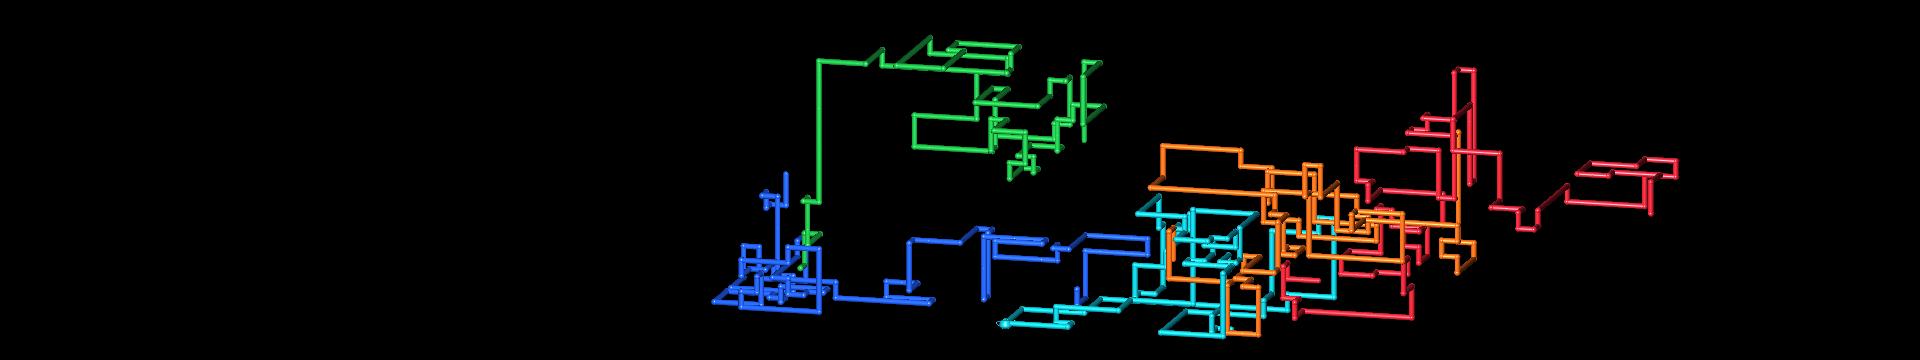
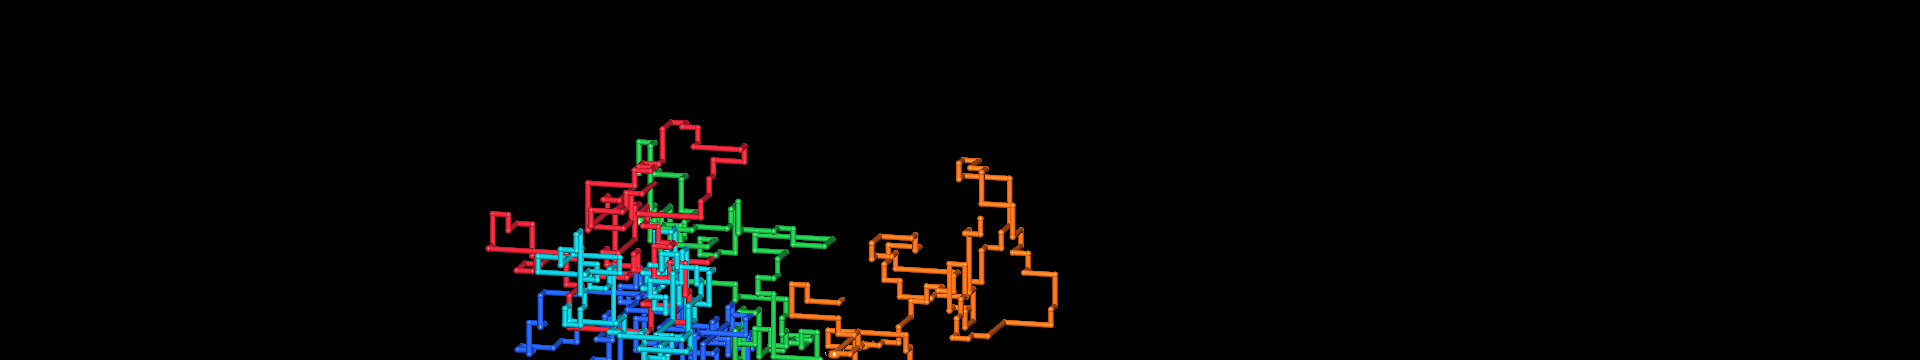
Replace bounded pipe corridors with free 3D growth biased toward the camera view

Changed region(s): [[0.25, 0.0917, 0.875, 1.0]]

diff --git a/source/Pipes.cs b/source/Pipes.cs
@@ -96,14 +96,15 @@ struct Cell : IEquatable<Cell> {
     public static Cell operator+(Cell a,Cell b) { return new Cell(a.X+b.X,a.Y+b.Y,a.Z+b.Z); }
     public bool Equals(Cell b) { return X==b.X&&Y==b.Y&&Z==b.Z; }
     public override bool Equals(object o) { return o is Cell && Equals((Cell)o); }
-    public override int GetHashCode() { return (X+32)*4096+(Y+32)*64+Z+32; }
+    public override int GetHashCode() { unchecked { return (X*73856093)^(Y*19349663)^(Z*83492791); } }
 }
 class Segment { public Cell A,B; public Color Color; public bool Joint,Teapot; }
 class Pipe { public Cell At,Direction; public Color Color; public Segment Growing; public double Progress; public bool Dead; }
 class Scene {
     public List<Segment> Segments=new List<Segment>(); public List<Pipe> Pipes=new List<Pipe>();
     public HashSet<Cell> Occupied=new HashSet<Cell>(); public int Resets; public double Age;
-    readonly double cameraPhase,cameraPhase2;
+    readonly double cameraPhase,cameraPhase2,viewAspect,viewHeightScale;
+    GrowthView growthView;
     Random rng; Settings settings; int halfX=10,halfY=6; int target=460; double hold;
     internal int HalfWidth { get { return halfX; } }
     internal int HalfHeight { get { return halfY; } }
@@ -111,7 +112,7 @@ class Scene {
     static readonly Cell[] directions={new Cell(1,0,0),new Cell(-1,0,0),new Cell(0,1,0),new Cell(0,-1,0),new Cell(0,0,1),new Cell(0,0,-1)};
     static readonly Color[][] palettes={ new[]{Color.FromArgb(230,36,53),Color.FromArgb(30,186,70),Color.FromArgb(35,95,240),Color.FromArgb(246,189,30),Color.FromArgb(190,42,225),Color.FromArgb(14,196,206),Color.FromArgb(245,108,24)}, new[]{Color.FromArgb(0,217,233),Color.FromArgb(248,32,143),Color.FromArgb(135,64,240),Color.FromArgb(62,238,191)},new[]{Color.FromArgb(178,196,215),Color.FromArgb(210,216,224),Color.FromArgb(136,163,195)} };
     public Scene(Settings s,int seed,double aspect,double heightScale=1) {
-        settings=s; rng=new Random(seed);
+        settings=s; rng=new Random(seed); viewAspect=Math.Max(0.4,aspect); viewHeightScale=heightScale;
         var cameraRandom=new Random(seed^0x6A13F5); cameraPhase=cameraRandom.NextDouble()*Math.PI*2; cameraPhase2=cameraRandom.NextDouble()*Math.PI*2;
         halfX=s.SpanAllScreens?Math.Max(5,(int)(aspect*heightScale*9.2)):Math.Max(5,Math.Min(20,(int)(aspect*6.4)));
         halfY=s.SpanAllScreens?Math.Max(6,(int)(heightScale*8.0)):6;
@@ -128,26 +129,36 @@ class Scene {
     }
     public void Reset() {
         Segments.Clear(); Pipes.Clear(); Occupied.Clear(); Age=0; hold=0; Resets++;
+        growthView=ViewAt(0);
         var pal=palettes[settings.Palette];
         int colourOffset=rng.Next(pal.Length);
         for(int i=0;i<settings.Count;i++) {
-            Cell start; do { start=new Cell(rng.Next(-halfX,halfX+1),rng.Next(-halfY,halfY+1),rng.Next(-4,5)); } while(Occupied.Contains(start));
+            Cell start; do { start=growthView.Spawn(rng); } while(Occupied.Contains(start));
             Occupied.Add(start); Pipes.Add(new Pipe { At=start,Color=pal[(i+colourOffset)%pal.Length] });
         }
     }
-    bool Inside(Cell c) { return Math.Abs(c.X)<=halfX && Math.Abs(c.Y)<=halfY && Math.Abs(c.Z)<=4; }
+    internal GrowthView ViewAt(double time) { return new GrowthView(CameraAt(time,settings.Rotate),viewAspect,settings.SpanAllScreens,viewHeightScale,halfX,halfY); }
+    internal double DirectionWeight(Cell from,Cell direction,Cell heading) {
+        double difference=growthView.Cost(from)-growthView.Cost(from+direction);
+        return (direction.Equals(heading)?2.4:1)*Math.Exp(Math.Max(-3,Math.Min(3,difference*2.5)));
+    }
     void Grow(Pipe p) {
-        var choices=new List<Cell>(); foreach(var d in directions) if(Inside(p.At+d)&&!Occupied.Contains(p.At+d)) choices.Add(d);
-        if(choices.Count==0) { p.Dead=true; return; }
-        Cell dir=choices[rng.Next(choices.Count)];
-        if(choices.Contains(p.Direction)&&rng.NextDouble()<0.48) dir=p.Direction;
+        // Every unoccupied neighbour is eligible, even beyond the old scene box.
+        // Weighted sampling gently favours the current camera's visible area.
+        double total=0; Cell dir=new Cell();
+        foreach(var candidate in directions) {
+            if(Occupied.Contains(p.At+candidate)) continue;
+            double weight=DirectionWeight(p.At,candidate,p.Direction); total+=weight;
+            if(rng.NextDouble()*total<weight) dir=candidate;
+        }
+        if(total==0) { p.Dead=true; return; }
         Cell next=p.At+dir; Occupied.Add(next);
         bool joint=!dir.Equals(p.Direction);
         p.Growing=new Segment { A=p.At,B=next,Color=p.Color,Joint=joint,Teapot=settings.Teapots&&joint&&rng.NextDouble()*100<settings.TeapotChance };
         p.Direction=dir; p.Progress=0;
     }
     public void Step(double dt) {
-        Age+=dt;
+        Age+=dt; growthView=ViewAt(Age);
         bool allDead=true;
         foreach(var p in Pipes) {
             if(p.Dead) continue; allDead=false;
@@ -437,13 +448,13 @@ static class Tests {
                     var cells=new HashSet<Cell>(); foreach(var s in scene.Segments) {
                         if(Math.Abs(s.A.X-s.B.X)+Math.Abs(s.A.Y-s.B.Y)+Math.Abs(s.A.Z-s.B.Z)!=1) throw new Exception("Non-axis-aligned pipe");
                         if(!cells.Add(s.B)) throw new Exception("Pipe collision");
-                        if(Math.Abs(s.B.X)>10||Math.Abs(s.B.Y)>6||Math.Abs(s.B.Z)>4) throw new Exception("Pipe outside bounds");
+                        if(!scene.Occupied.Contains(s.B)) throw new Exception("Pipe endpoint lost from collision tracking");
                     }
                 }
             }
             if(scene.Resets<2) throw new Exception("Scene did not cycle");
         }
-        log.Add("PASS: 180,000 simulation updates across 30 seeds; axis alignment, unique endpoints, bounds, automatic reset.");
+        log.Add("PASS: 180,000 simulation updates across 30 seeds; axis alignment, unique endpoints, collision tracking, automatic reset.");
         for(int mask=1;mask<=15;mask++) {
             var modes=new Settings {Pipes=(mask&1)!=0,Fireworks=(mask&2)!=0,Bubbles=(mask&4)!=0,Dvd=(mask&8)!=0,TeapotChance=mask==1?25:0.5,FireworkRate=6};
             using(var w=new PipesWindow(modes,"test",new Rectangle(0,0,1200,750),IntPtr.Zero,101)) {
@@ -590,6 +601,8 @@ static class Tests {
         log.Add("PASS: launcher controls render and close cleanly.");
         UiTests.Run(dir);
         DvdTests.Run(dir);
+        GrowthTests.Run(dir);
+        log.Add("PASS: unrestricted outward moves through all six former walls, camera-aware positive direction weights, inward preference offscreen and varied 3D layouts.");
         log.Add("PASS: DVD edges/corners, colour changes, delayed frames, portrait/panoramic bounds, standalone continuity, chance endpoints, persistence and smooth drifting orbit.");
         log.Add("PASS: clipped/translated paints, stale-pixel removal, 30 mode switches, typed overrides, reusable Advanced dialog, Full Random on/off/defaults and persistence, teapot randomization.");
         using(var resource=System.Reflection.Assembly.GetExecutingAssembly().GetManifestResourceStream("RetroPipes.ThirdPartyNotices"))

diff --git a/source/GrowthTests.cs b/source/GrowthTests.cs
@@ -1,0 +1,49 @@
+using System;
+using System.Drawing;
+using System.IO;
+using System.Windows.Forms;
+
+namespace RetroPipes {
+static class GrowthTests {
+    public static void Run(string dir) {
+        var directions=new[]{new Cell(1,0,0),new Cell(-1,0,0),new Cell(0,1,0),new Cell(0,-1,0),new Cell(0,0,1),new Cell(0,0,-1)};
+        // Leave only an outward move free, well outside every old boundary.
+        foreach(var direction in directions) {
+            var scene=new Scene(new Settings {Count=1,Speed=1},19,1.6);
+            var start=new Cell(direction.X*100,direction.Y*100,direction.Z*100);
+            scene.Occupied.Clear(); scene.Occupied.Add(start); var pipe=scene.Pipes[0]; pipe.At=start;
+            foreach(var block in directions) if(!block.Equals(direction)) scene.Occupied.Add(start+block);
+            scene.Step(0.01);
+            if(pipe.Dead||pipe.Growing==null||!pipe.Growing.B.Equals(start+direction)) throw new Exception("A former spatial boundary still prevents growth");
+        }
+        foreach(bool span in new[]{false,true}) foreach(bool orbit in new[]{false,true}) {
+            double aspect=span?16.0/3:16.0/9;
+            var scene=new Scene(new Settings {Count=1,SpanAllScreens=span,Rotate=orbit},15,aspect);
+            var distant=new Cell(100,90,80); var view=scene.ViewAt(0); double lowest=double.MaxValue,highest=double.MinValue,bestWeight=0,worstWeight=0;
+            foreach(var direction in directions) {
+                double cost=view.Cost(distant+direction),weight=scene.DirectionWeight(distant,direction,new Cell());
+                if(weight<=0||double.IsNaN(weight)||double.IsInfinity(weight)) throw new Exception("Soft bias forbids an otherwise valid direction");
+                if(cost<lowest) { lowest=cost; bestWeight=weight; }
+                if(cost>highest) { highest=cost; worstWeight=weight; }
+            }
+            if(bestWeight<=worstWeight) throw new Exception("Offscreen growth does not prefer returning towards view");
+        }
+        int escapedX=0,escapedY=0,escapedZ=0;
+        for(int seed=0;seed<30;seed++) {
+            var scene=new Scene(new Settings {Speed=5,Count=5},seed,1.6);
+            for(int step=0;step<400;step++) scene.Step(0.03);
+            foreach(var segment in scene.Segments) {
+                if(Math.Abs(segment.B.X)>scene.HalfWidth) escapedX++;
+                if(Math.Abs(segment.B.Y)>scene.HalfHeight) escapedY++;
+                if(Math.Abs(segment.B.Z)>4) escapedZ++;
+            }
+        }
+        if(escapedX<30||escapedY<30||escapedZ<30) throw new Exception("Random layouts still form the old bounded corridor");
+        File.WriteAllText(Path.Combine(dir,"growth-results.txt"),"Endpoints beyond former X/Y/Z walls across 30 layouts: "+escapedX+" / "+escapedY+" / "+escapedZ);
+        using(var window=new PipesWindow(new Settings {SpanAllScreens=true,Rotate=true,Speed=5,Count=10},"test",new Rectangle(0,0,1800,600),IntPtr.Zero,91)) {
+            window.Show(); Application.DoEvents(); for(int frame=0;frame<1500;frame++) window.Advance(0.02);
+            window.SaveFrame(Path.Combine(dir,"Free-growth-preview.png")); window.Close();
+        }
+    }
+}
+}

diff --git a/source/GrowthView.cs b/source/GrowthView.cs
@@ -1,0 +1,40 @@
+using System;
+
+namespace RetroPipes {
+// The same camera transform as the renderer, used only as a soft preference.
+// No coordinate or screen edge makes a growth direction illegal.
+struct GrowthView {
+    double a,b,c,d,e,f,g,h,i,aimX,aimY,aspect,halfHeight,distance,depthScale;
+    bool panoramic;
+    public GrowthView(CameraPose camera,double ratio,bool span,double heightScale,int width,int height) {
+        double yaw=camera.Yaw*Math.PI/180,pitch=camera.Pitch*Math.PI/180,roll=camera.Roll*Math.PI/180;
+        double sy=Math.Sin(yaw),cy=Math.Cos(yaw),sp=Math.Sin(pitch),cp=Math.Cos(pitch),sr=Math.Sin(roll),cr=Math.Cos(roll);
+        a=cr*cy-sr*sp*sy; b=-sr*cp; c=cr*sy+sr*sp*cy;
+        d=sr*cy+cr*sp*sy; e=cr*cp; f=sr*sy-cr*sp*cy;
+        g=-cp*sy; h=sp; i=cp*cy;
+        aimX=camera.AimX; aimY=camera.AimY; aspect=ratio; panoramic=span;
+        halfHeight=27*0.41421356*heightScale; distance=span?30+width+height:27;
+        depthScale=halfHeight*(span?Math.Sqrt(Math.Max(1,ratio)):1);
+    }
+    public double Cost(Cell point) {
+        double x=a*point.X+b*point.Y+c*point.Z-aimX;
+        double y=d*point.X+e*point.Y+f*point.Z-aimY;
+        double z=g*point.X+h*point.Y+i*point.Z;
+        double visibleHeight=panoramic?halfHeight:Math.Max(1,distance-z)*0.41421356;
+        double nx=x/(visibleHeight*aspect),ny=y/visibleHeight;
+        // A broad, nearly flat preference in the image, with a gradual pull back
+        // from offscreen space and from extreme depth. Never a reflecting wall.
+        double outsideX=Math.Max(0,Math.Abs(nx)-0.72),outsideY=Math.Max(0,Math.Abs(ny)-0.72);
+        double depth=z/depthScale,nearCamera=Math.Max(0,z-distance+5)/halfHeight;
+        return 3*(outsideX*outsideX+outsideY*outsideY+nearCamera*nearCamera)+0.16*depth*depth;
+    }
+    public Cell Spawn(Random random) {
+        double angle=random.NextDouble()*Math.PI*2,radius=Math.Sqrt(random.NextDouble())*0.85;
+        double z=(random.NextDouble()+random.NextDouble()-1)*depthScale*0.75;
+        double visibleHeight=panoramic?halfHeight:(distance-z)*0.41421356;
+        double x=Math.Cos(angle)*radius*visibleHeight*aspect+aimX,y=Math.Sin(angle)*radius*visibleHeight+aimY;
+        // Inverse of an orthonormal camera rotation is its transpose.
+        return new Cell((int)Math.Round(a*x+d*y+g*z),(int)Math.Round(b*x+e*y+h*z),(int)Math.Round(c*x+f*y+i*z));
+    }
+}
+}

diff --git a/source/UiTests.cs b/source/UiTests.cs
@@ -48,6 +48,9 @@ static class UiTests {
         var settings=new Settings {Speed=125,Count=60,TeapotChance=0.5,SpanAllScreens=true};
         using(var launcher=new Launcher(settings,false)) {
             launcher.StartPosition=FormStartPosition.Manual; launcher.Location=new Point(-16000,-16000); launcher.Show(); Application.DoEvents();
+            // Settle the native combo's initial selection paint before comparing
+            // repeated transitions; first-show and post-selection native states differ.
+            launcher.modeSelector.SelectedIndex=1; launcher.modeSelector.SelectedIndex=0; Application.DoEvents(); launcher.Refresh();
             using(var baseline=new Bitmap(launcher.Width,launcher.Height)) using(var after=new Bitmap(launcher.Width,launcher.Height)) {
                 launcher.DrawToBitmap(baseline,launcher.ClientRectangle);
                 for(int i=0;i<30;i++) { launcher.modeSelector.SelectedIndex=1; launcher.Refresh(); launcher.modeSelector.SelectedIndex=0; launcher.Refresh(); }

diff --git a/README.md b/README.md
@@ -6,7 +6,7 @@ Classic-inspired 3D pipes, fireworks, glass bubbles and a bouncing DVD logo. Run
 
 ## Download and run
 
-Download **Retro-Pipes-v1.7.zip** from the [latest release](https://github.com/S0MBRX/retro-pipes/releases/latest), extract it, and open **RetroPipes.exe**.
+Download **Retro-Pipes-v1.8.zip** from the [latest release](https://github.com/S0MBRX/retro-pipes/releases/latest), extract it, and open **RetroPipes.exe**.
 
 - **Start wallpaper** animates behind desktop icons. Use its system-tray icon to open controls or stop it.
 - **Try screensaver** fills your displays. Move the mouse or press any key to exit.
@@ -32,6 +32,14 @@ Choose Classic, Electric or Chrome pipe colours, growth speed, pipe count and an
 Every layout picks a random starting colour from the selected theme. A single pipe can use any of the theme's colours, including when randomized settings are turned off.
 
 The number boxes accept **speed 1–1000** and **pipe count 1–500**, beyond the sliders' convenient ranges of 1–25 and 1–10. The default values (and randomized upper limits) are speed **25** and count **10**. Larger typed values remain active even though the slider stays at its end. Moving a slider selects a value within its regular range.
+
+### Free-growing pipe shapes
+
+Pipes no longer grow inside a hard rectangular box or fixed shallow depth slab. Every unoccupied neighbouring cell remains eligible, including beyond the screen edges. A smooth, camera-aware preference favours visible space and gently pulls distant growth back toward it. Offscreen travel is still possible; there are no reflecting walls.
+
+Starting points are spread through the current camera view with varied depth. The bias follows the drifting orbit and works over the full shared desktop when spanning. Straight runs and turns remain random, with classic right-angle joints and collision avoidance. Scene complexity budgets and resets still prevent geometry from accumulating forever; these are not spatial boundaries.
+
+![Irregular free-growing pipe shapes](Free-growth-preview.png)
 
 ### Drifting camera orbit
 
@@ -79,7 +87,7 @@ Tick **One continuous scene across all detected screens**, then start wallpaper 
 
 There is no hard-coded monitor count. The app enumerates all connected displays. In spanning mode each monitor renders a matching section of one shared simulation, avoiding a single enormous rendering window. The simulation advances once per frame, irrespective of monitor count. The app automatically starts fresh views when displays are connected, disconnected, resized or rearranged; your selected settings remain in effect. Wallpaper also retries its desktop attachment after Explorer restarts. Available display and graphics hardware still determine practical capacity.
 
-The pipe growth speed and total pipe count are unchanged. The scene gains more space and more capacity, and spanning removes the fixed 105-second pipe-scene cutoff so growth can continue naturally until the pipes fill their available paths or get stuck. Pipes follow random paths, so they are not forced to cover every part of the desktop. Set pipe count to **1** for one growing pipe in the shared scene.
+The pipe growth speed and total pipe count are unchanged. The scene gains more space and more capacity, and spanning removes the fixed 105-second pipe-scene cutoff so growth can continue naturally until the scene reaches its geometry budget or pipes get stuck. Pipes follow random paths, so they are not forced to cover every part of the desktop. Set pipe count to **1** for one growing pipe in the shared scene.
 
 Random settings roll once for the entire spanning scene. Untick the option to restore independent scenes and random rolls per monitor. Window preview adopts the desktop's wide/tall aspect ratio. Start wallpaper again to apply changes made to the app's own settings; physical display layout changes are handled automatically.
 
@@ -118,6 +126,6 @@ if ($process.ExitCode -ne 0) { throw 'Self-test failed. See work/test-error.txt.
 Get-Content .\work\test-results.txt
 ```
 
-The tests exercise selective random settings, 0%/100% chances, old-settings migration, extended values, serialization, high-speed growth, dense scenes, collision avoidance, scene cycling, teapot generation, all fifteen layer combinations, three simultaneous independent screen cycles, layouts with 1–64 displays, view rebuilding for 1/5/2 displays, seamless shared projections, rendered-slice comparison against a full scene, unchanged spanning growth speed/count, desktop attachment, bounded effects, OpenGL rendering, preview embedding and launcher controls. UI regression tests check clipped and translated repaints, removal of stale pixels, 30 mode switches, typed overrides, repeated Advanced-dialog opening, Full Random on/off/default restoration and persistence, and teapot randomization. DVD tests cover edges/corners, colour changes, long frames, portrait and panoramic bounds, uninterrupted standalone playback, chance endpoints and saved settings. Camera tests check smooth changing angles and a stable disabled state; shared-view comparisons include the orbit and DVD overlay. The clipping regression fails against the previous drawing code and passes with the fix. Test windows are placed offscreen. Tests leave saved user settings unchanged. Layout tests simulate large monitor counts; physical desktop attachment was tested on a three-monitor setup.
+The tests exercise selective random settings, 0%/100% chances, old-settings migration, extended values, serialization, high-speed growth, dense scenes, collision avoidance, growth through all six former boundaries, positive soft-bias weights and an offscreen return preference, scene cycling, teapot generation, all fifteen layer combinations, three simultaneous independent screen cycles, layouts with 1–64 displays, view rebuilding for 1/5/2 displays, seamless shared projections, rendered-slice comparison against a full scene, unchanged spanning growth speed/count, desktop attachment, bounded effects, OpenGL rendering, preview embedding and launcher controls. UI regression tests check clipped and translated repaints, removal of stale pixels, 30 mode switches, typed overrides, repeated Advanced-dialog opening, Full Random on/off/default restoration and persistence, and teapot randomization. DVD tests cover edges/corners, colour changes, long frames, portrait and panoramic bounds, uninterrupted standalone playback, chance endpoints and saved settings. Camera tests check smooth changing angles and a stable disabled state; shared-view comparisons include the orbit and DVD overlay. The clipping regression fails against the previous drawing code and passes with the fix. Test windows are placed offscreen. Tests leave saved user settings unchanged. Layout tests simulate large monitor counts; physical desktop attachment was tested on a three-monitor setup.
 
 See [README.txt](README.txt) for command-line modes and uninstall instructions.
